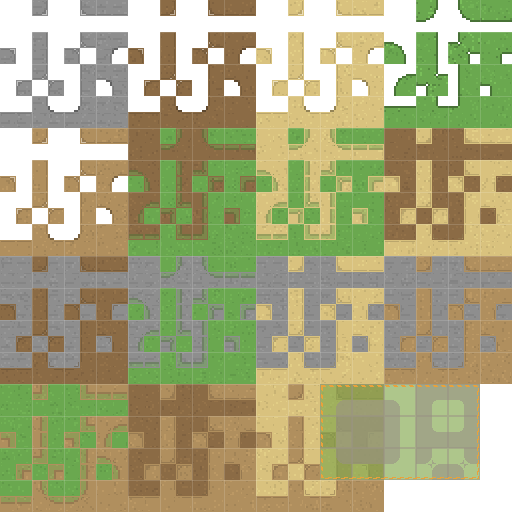
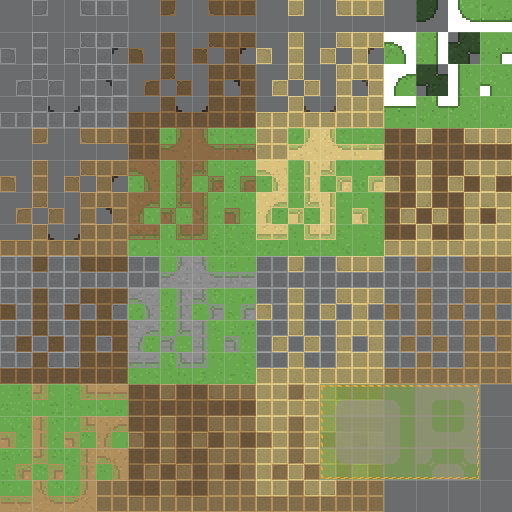
Materials section design: a tag filter and dimming on the Tag stage
The owner's direction on the canvas (2026-09-19): a filter over which
tags are drawn, so a material's fringes can be found on a sheet, and
dimming of every tile with no corner of the selected material. Both float
on the Tag stage beside the view switch; the sheet is re-rendered with the
dimming on. README follows.

diff --git a/docs/design/materials-section/Tag.dc.html b/docs/design/materials-section/Tag.dc.html
@@ -139,9 +139,16 @@ img{display:block;image-rendering:pixelated}
           <img src="sheet-pending.png" alt="ground.png with every tagged corner drawn as a quadrant, and a 5 × 3 block ghosted where the pointer is" style="position: absolute; left: 20px; top: 20px; width: 512px; height: 512px;">
           <!-- the view switch floats on the stage itself, not in the tools row -->
           <div class="seg" style="position: absolute; top: 12px; right: 12px; z-index: 2; background: #242833; box-shadow: 0 4px 16px rgba(0,0,0,.45);"><a href="Main.dc.html" style="height: 22px; padding: 0 10px; border-radius: 4px; color: #aab0c0; font-size: 12px; display: inline-flex; align-items: center; text-decoration: none;">Preview</a><button class="on" type="button">Tag</button><a href="Fixture.dc.html" style="height: 22px; padding: 0 10px; border-radius: 4px; color: #aab0c0; font-size: 12px; display: inline-flex; align-items: center; text-decoration: none;">3D</a></div>
+          <!-- a floating filter over the tags shown: every slot, or one of them — how the fringes are found on a sheet -->
+          <div style="position: absolute; top: 12px; left: 12px; z-index: 2; display: flex; align-items: center; gap: 6px; background: #242833; border: 1px solid #353b4a; border-radius: 6px; padding: 4px 6px 4px 10px; box-shadow: 0 4px 16px rgba(0,0,0,.45);">
+            <span class="k">Show</span>
+            <div class="seg" style="border: 0; background: none; padding: 0;"><button class="on" type="button">All tags</button><button type="button">Surface</button><button type="button">Fringe <span class="mono" style="color: #7b8294;">3</span></button><button type="button">Picket <span class="mono" style="color: #7b8294;">0</span></button></div>
+            <span style="width: 1px; height: 16px; background: #353b4a; margin: 0 2px;"></span>
+            <label style="display: inline-flex; align-items: center; gap: 6px; font-size: 12px; color: #aab0c0;"><input type="checkbox" checked style="margin: 0; accent-color: #e9a23b;">Dim tiles without Grass</label>
+          </div>
           <div style="position: absolute; left: 356px; top: 436px; background: #242833; border: 1px solid #414859; border-radius: 4px; padding: 5px 8px; font-size: 11.5px; color: #aab0c0; white-space: nowrap; box-shadow: 0 6px 20px rgba(0,0,0,.4);"><b style="color: #e8eaf0; font-weight: 600;">Tile 202</b> · 5 × 3 block from here · click to place</div>
           <div style="position: absolute; left: 0; right: 0; bottom: 0; padding: 6px 16px; background: rgba(21, 23, 28, .88); border-top: 1px solid #353b4a; font-size: 11.5px; color: #aab0c0; display: flex; gap: 6px; align-items: center;">
-            <b style="color: #e8eaf0; font-weight: 600;">Stone</b> drawn over <b style="color: #e8eaf0; font-weight: 600;">Grass</b> · 5 × 3 · what it writes is drawn under the pointer, Stone's region rounded the way the art will be · click its top-left tile · ⌘ wheel to zoom
+            <b style="color: #e8eaf0; font-weight: 600;">Stone</b> drawn over <b style="color: #e8eaf0; font-weight: 600;">Grass</b> · 5 × 3 · what it writes is drawn under the pointer · tiles with no corner of Grass are dimmed · click its top-left tile · ⌘ wheel to zoom
           </div>
         </div>
 

diff --git a/docs/design/materials-section/README.md b/docs/design/materials-section/README.md
@@ -211,7 +211,12 @@ over the sheet, and the over material's region is drawn as a shape — its
 convex corners rounded, its concave ones filleted, the way the art rounds —
 rather than as four flat quadrants, so where each material lands is plain
 (the owner's direction of 2026-09-19, on the canvas). The default sheet is
-the one that holds most of the subject's tags.
+the one that holds most of the subject's tags. Two more things float on the
+stage beside the view switch, both the owner's directions of the same day:
+a **filter** over which tags are drawn — all of them, or only one slot, so a
+material's fringe or picket tiles can be found on a sheet — and **dimming**
+of every tile that has no corner of the selected material, so its own art
+stands out from everything else on the sheet.
 
 **3D** is new: the subject on a fixture the real renderer draws.
 
